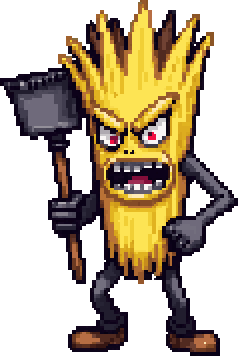
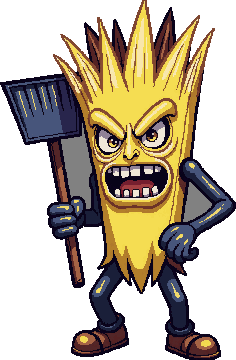
Escoba Furiosa en HD; el instalador quita fondos sólidos; hd_resto.py para el resto del arte
Claude-Session: https://claude.ai/code/session_01RXm88NMkoZ62i4aJpAJzSL

diff --git a/gato-idle/tools/arte/hd_resto.py b/gato-idle/tools/arte/hd_resto.py
@@ -1,0 +1,81 @@
+# Pasa a HD (4 px por unidad) lo que falta: objetos, jefes y cuartos, a partir del arte viejo
+# (escalado ×2) como guía de forma. Objetos y cuadros/ventanas ≤256 px: edit-image-pixen (redibuja
+# respetando la forma). Lo más grande (jefes, objetos y muebles anchos): pixflux con init_image;
+# los muebles anchos se parten en dos mitades (pixen) con la misma semilla y se vuelven a unir.
+# Uso: python3 -I tools/arte/hd_resto.py <salida> [solo:objetos|jefes|cuartos]
+import json, os, subprocess, sys
+from PIL import Image
+sys.path.insert(0, os.path.dirname(os.path.abspath(__file__)))
+OUT = sys.argv[1]; SOLO = sys.argv[2] if len(sys.argv) > 2 else None
+ARTE = 'src/assets/arte'
+HD = ", detailed high resolution pixel art, thick dark outline, 3-tone cel shading, vibrant colors, no background"
+def run(cmd): subprocess.run(cmd)
+def pixen(src, prefix, desc, seeds=(1, 2)):
+    im = Image.open(src); w, h = -(-im.width // 4) * 4, -(-im.height // 4) * 4
+    run(['python3', '-I', 'tools/arte/editar.py', src, prefix, str(w), str(h), desc, *map(str, seeds)])
+def pixflux_init(jobs, folder):
+    path = f'{OUT}/{folder}.json'; json.dump(jobs, open(path, 'w')); run(['python3', '-I', 'tools/arte/generar.py', path, f'{OUT}/{folder}'])
+def padded(src, dst):
+    im = Image.open(src).convert('RGBA'); w, h = -(-im.width // 8) * 8, -(-im.height // 8) * 8
+    pad = Image.new('RGBA', (w, h), (0, 0, 0, 0)); pad.paste(im, ((w - im.width) // 2, h - im.height)); pad.save(dst); return w, h
+
+os.makedirs(f'{OUT}/var', exist_ok=True)
+# ---- Objetos (fuera del departamento) ----
+if SOLO in (None, 'objetos'):
+    big = []
+    for o in json.load(open('src/data/objects.json')):
+        if o['casa'] == 'departamento': continue
+        src = f"{ARTE}/{o['sprite']}.png"; im = Image.open(src)
+        desc = f"the same {o['id']} redrawn as detailed high resolution pixel art game item, thick dark outline, 3-tone cel shading, vibrant colors, keep the shape, the colors and the joke"
+        if max(im.size) <= 256: pixen(src, f"{OUT}/var/{o['sprite']}", desc)
+        else:
+            w, h = padded(src, f"{OUT}/init_{o['sprite']}.png")
+            big.append({"name": o['sprite'], "w": w, "h": h, "seeds": [1, 2], "init": f"{OUT}/init_{o['sprite']}.png", "strength": 90, "desc": f"{o['id']}, same object and colors as the reference" + HD})
+    if big: pixflux_init(big, 'objetos_grandes')
+# ---- Jefes ----
+if SOLO in (None, 'jefes'):
+    DESC = {'pepino': "giant angry cucumber monster boss with a furious face, muscular arms, menacing pose, funny meme",
+            'industrial': "giant industrial vacuum cleaner robot boss with an angry face on its tank, hose arms, menacing, funny meme",
+            'veterinario': "evil space veterinarian in a white spacesuit holding a giant syringe, menacing grin, funny meme"}
+    jobs = []
+    for bid, desc in DESC.items():
+        for suf, extra, seeds in [('', ', menacing pose', [1, 2, 3]), ('_derrotado', ', defeated, dizzy spiral eyes, slumped and tired', [1, 2])]:
+            name = f'jefe_{bid}{suf}'; w, h = padded(f'{ARTE}/{name}.png', f'{OUT}/init_{name}.png')
+            jobs.append({"name": name, "w": w, "h": h, "seeds": seeds, "direction": "east", "init": f"{OUT}/init_{name}.png", "strength": 110, "desc": desc + extra + HD})
+    pixflux_init(jobs, 'jefes')
+# ---- Cuartos ----
+if SOLO in (None, 'cuartos'):
+    cuartos = {j['name']: j for j in json.load(open('tools/arte/cuartos.json'))}
+    muebles = {j['name']: j for j in json.load(open('tools/arte/muebles.json'))}
+    for extra in ('tools/arte/casa.json', 'tools/arte/mansion.json', 'tools/arte/luna.json'):
+        if os.path.exists(extra):
+            for j in json.load(open(extra)):
+                (muebles if j['name'].split('_')[-1] in ('barra', 'mesa', 'mueble', 'repisa', 'cama', 'escritorio', 'inodoro') else cuartos).setdefault(j['name'], j)
+    rooms = ['sala', 'bano', 'recamara', 'lavado', 'jardin', 'estudio', 'cochera', 'salon', 'cine', 'alberca', 'cohete', 'labluna', 'superficie']
+    TEX = ", detailed high resolution pixel art texture, flat front view, cozy cartoon game, seamless repeating tile, even lighting, no vignette, fills the whole image"
+    tiles = []
+    for room in rooms:
+        for kind in ('pared', 'piso'):
+            key = f'{room}_{kind}'; old = f'{ARTE}/{kind}_{room}.png'
+            if not os.path.exists(old): continue
+            base = f'tools/arte/bases/base_{key}.png'
+            init = base if os.path.exists(base) else old
+            im = Image.open(init); im.resize((128, 128), Image.NEAREST).save(f'{OUT}/init_{key}.png')
+            desc = cuartos.get(key, cuartos.get(key + '_k60', {})).get('desc', f'{room} {kind} texture')
+            tiles.append({"name": key, "w": 128, "h": 128, "seeds": [1, 2], "transparent": False, "init": f"{OUT}/init_{key}.png", "strength": 60, "guidance": 6, "style": TEX, "desc": desc})
+        for kind in ('ventana', 'cuadro'):
+            old = f'{ARTE}/{kind}_{room}.png'
+            if os.path.exists(old):
+                desc = cuartos.get(f'{room}_{kind}', {}).get('desc', f'{room} {kind}')
+                pixen(old, f'{OUT}/var/{kind}_{room}', f"the same {desc}, redrawn as detailed high resolution pixel art, thick dark outline, 3-tone cel shading, vibrant colors, keep the shape")
+    if tiles: pixflux_init(tiles, 'tiles')
+    # Muebles: mitades ≤256 con la misma semilla.
+    for name, j in muebles.items():
+        old = f'{ARTE}/mueble_{name}.png'
+        if not os.path.exists(old) or name == 'cocina_barra': continue
+        im = Image.open(old).convert('RGBA'); desc = f"the same {j['desc']}, redrawn as detailed high resolution pixel art, thick dark outline, 3-tone cel shading, keep the shape and colors"
+        if im.width <= 256: pixen(old, f'{OUT}/var/mueble_{name}', desc, (1,)); continue
+        half = -(-im.width // 2 // 4) * 4
+        for side, box in (('izq', (0, 0, half, im.height)), ('der', (im.width - half, 0, im.width, im.height))):
+            im.crop(box).save(f'{OUT}/mitad_{name}_{side}.png'); pixen(f'{OUT}/mitad_{name}_{side}.png', f'{OUT}/var/mueble_{name}_{side}', desc, (1,))
+print('HD-RESTO-LISTO')

diff --git a/gato-idle/tools/arte/instalar.py b/gato-idle/tools/arte/instalar.py
@@ -29,12 +29,22 @@ def clean(im):
             for p in g: out.putpixel(p, (0, 0, 0, 0))
     return out
 
+def sin_fondo(im):
+    """Si la imagen trae fondo sólido (esquinas opacas), lo vuelve transparente desde las esquinas."""
+    from PIL import ImageDraw
+    corners = [(0, 0), (im.width - 1, 0), (0, im.height - 1), (im.width - 1, im.height - 1)]
+    if all(im.getpixel(c)[3] < 40 for c in corners): return im
+    out = im.copy()
+    for c in corners:
+        if out.getpixel(c)[3] >= 40: ImageDraw.floodfill(out, c, (0, 0, 0, 0), thresh=36)
+    return out
+
 items = []
 for arg in sys.argv[3:]:
     key, rest = arg.split('=', 1)
     name, _, frame = rest.partition(':')
     path = f'{SRC}/{name}.png' if not os.path.exists(f'{SRC}/{name}') else f'{SRC}/{name}'
-    items.append((key, clean(Image.open(path).convert('RGBA')), frame or None))
+    items.append((key, clean(sin_fondo(Image.open(path).convert('RGBA'))), frame or None))
 
 # Marcos compartidos: la unión de los contenidos.
 frames = {}
